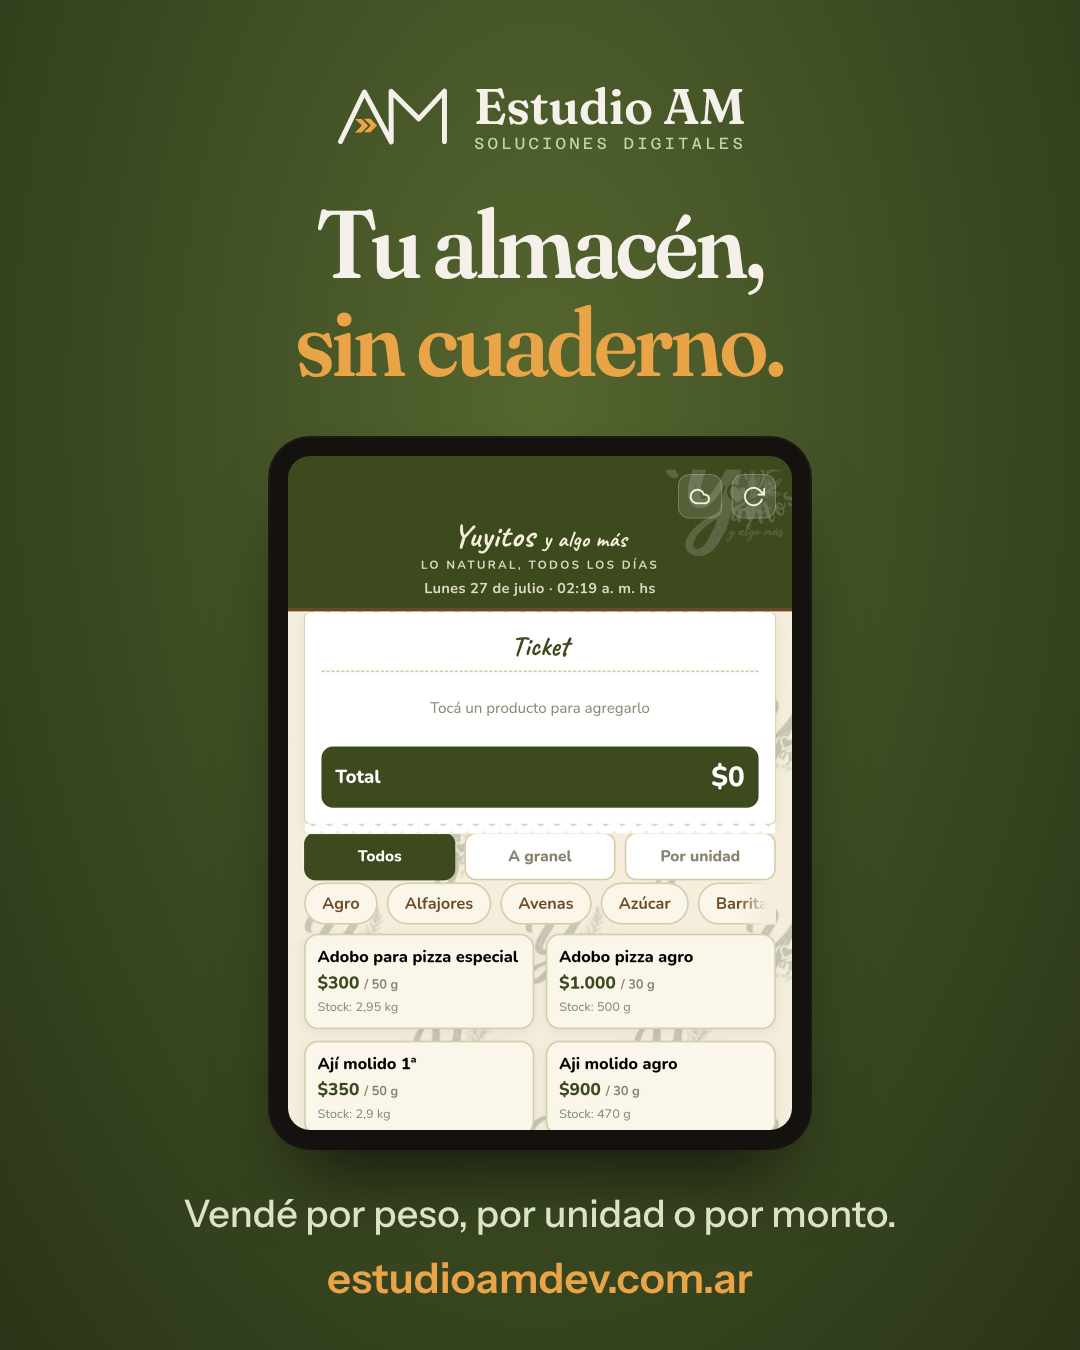
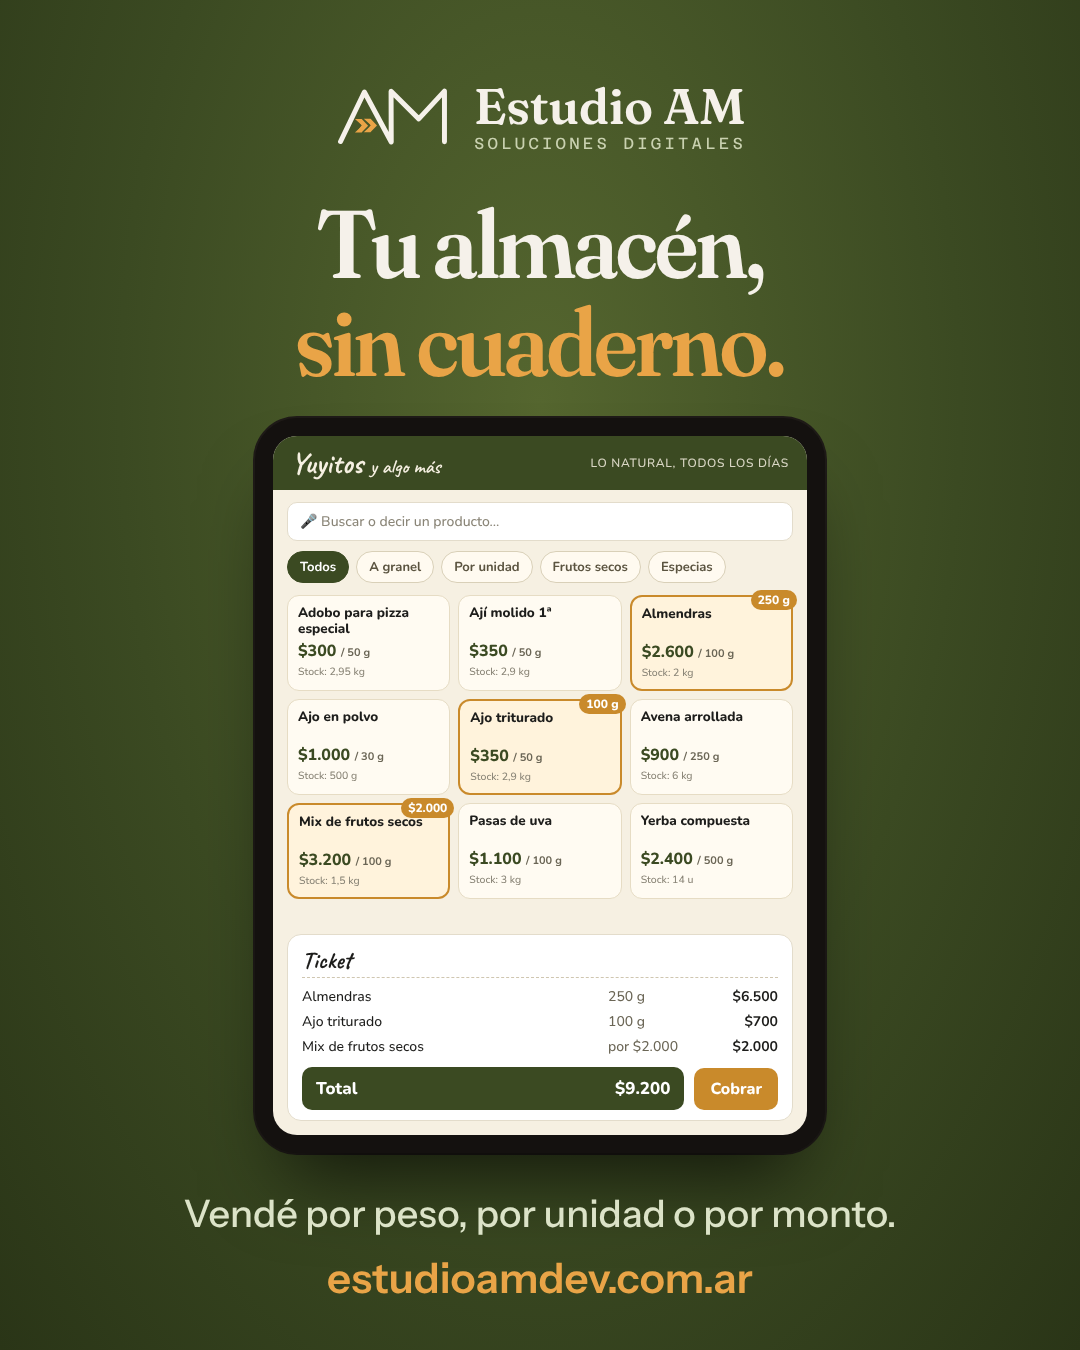
Instagram Yuyitos: pantalla de venta rediseñada para tablet (grilla de productos y ticket)
Claude-Session: https://claude.ai/code/session_017mEGFx6s2jDAYU45fQz8RP

Changed region(s): [[0.2139, 0.3111, 0.7639, 0.8711]]

diff --git a/piezas/instagram-yuyitos.html b/piezas/instagram-yuyitos.html
@@ -1,5 +1,5 @@
 <!doctype html><html lang="es"><head><meta charset="utf-8">
-<link href="https://fonts.googleapis.com/css2?family=Fraunces:ital,opsz,wght,SOFT,WONK@0,9..144,400..700,50,1;1,9..144,400..600,50,1&family=Instrument+Sans:wght@400;500;600&family=Azeret+Mono:wght@400;500&display=block" rel="stylesheet">
+<link href="https://fonts.googleapis.com/css2?family=Fraunces:ital,opsz,wght,SOFT,WONK@0,9..144,400..700,50,1;1,9..144,400..600,50,1&family=Instrument+Sans:wght@400;500;600&family=Azeret+Mono:wght@400;500&family=Caveat:wght@600;700&family=Nunito:wght@500;700;800&display=block" rel="stylesheet">
 <style>
 *{box-sizing:border-box;margin:0;padding:0}
 body{width:1080px;height:1350px;overflow:hidden;position:relative;font-family:'Instrument Sans',sans-serif;color:#14110F;background:radial-gradient(ellipse at 50% 30%,#55662F 0%,#3B4A22 55%,#2A3517 100%)}
@@ -9,15 +9,47 @@ body{width:1080px;height:1350px;overflow:hidden;position:relative;font-family:'I
 .top i{font-style:normal;font-family:'Azeret Mono',monospace;font-size:16px;letter-spacing:.2em;text-transform:uppercase;color:#C9D1B0}
 h1{position:absolute;top:195px;left:0;right:0;text-align:center;font-family:'Fraunces',serif;font-weight:600;font-size:96px;line-height:1.02;letter-spacing:-.025em;color:#F5F1EA}
 h1 span{color:#E9A447}
-.tab{position:absolute;left:270px;top:438px;width:540px;height:710px;padding:18px;background:#14110F;border-radius:40px;box-shadow:0 50px 80px -30px rgba(0,0,0,.7),0 0 0 2px #1f1b18}
-.tab img{display:block;width:504px;height:674px;object-fit:cover;object-position:top;border-radius:22px}
+.tab{position:absolute;left:255px;top:418px;width:570px;height:735px;padding:18px;background:#14110F;border-radius:42px;box-shadow:0 50px 80px -30px rgba(0,0,0,.7),0 0 0 2px #1f1b18}
+
 
 .sub{position:absolute;top:1190px;left:0;right:0;text-align:center;font-size:38px;font-weight:500;color:#DCE3C8}
 .url{position:absolute;top:1252px;left:0;right:0;text-align:center;font-weight:600;font-size:42px;color:#E9A447}
+
+.scr{width:534px;height:699px;border-radius:24px;overflow:hidden;background:#F6F0E2;font-family:'Nunito',sans-serif;color:#1d1d1b;display:flex;flex-direction:column}
+.hd{background:#3B4A22;color:#F6F0E2;padding:12px 18px;display:flex;align-items:center;justify-content:space-between}
+.hd b{font-family:'Caveat',cursive;font-size:30px;font-weight:700;line-height:1}.hd b small{font-size:20px;font-weight:600}
+.hd span{font-size:12px;letter-spacing:.06em;opacity:.85}
+.srch{margin:12px 14px 0;background:#fff;border:1px solid #e3dccb;border-radius:10px;padding:9px 12px;font-size:14px;color:#8a8577}
+.chips{display:flex;gap:7px;margin:10px 14px 0}
+.chips i{font-style:normal;font-size:13px;font-weight:700;padding:6px 12px;border-radius:999px;border:1px solid #d9d0b8;color:#5b5440;background:#fffaf0}
+.chips i.on{background:#3B4A22;color:#fff;border-color:#3B4A22}
+.grid{display:grid;grid-template-columns:repeat(3,1fr);gap:8px;margin:12px 14px 0}
+.p{background:#FFFBF2;border:1px solid #e6dcc4;border-radius:12px;padding:9px 10px;position:relative}
+.p h4{font-size:13.5px;font-weight:800;line-height:1.15;height:31px}
+.p .pr{margin-top:4px;font-size:16px;font-weight:800;color:#3B4A22}.p .pr small{font-size:11px;color:#6b6656;font-weight:600}
+.p .st{font-size:10.5px;color:#8a8577;margin-top:2px}
+.p.sel{border:2px solid #C98A2B;background:#FFF3DC}
+.p .q{position:absolute;top:-7px;right:-6px;background:#C98A2B;color:#fff;font-size:12px;font-weight:800;border-radius:999px;padding:2px 7px}
+.tk{margin:auto 14px 14px;background:#fff;border:1px solid #e3dccb;border-radius:14px;padding:10px 14px}
+.tk .tt{font-family:'Caveat',cursive;font-size:24px;font-weight:700;border-bottom:1px dashed #cfc6b0;padding-bottom:2px;margin-bottom:6px}
+.tk .r{display:grid;grid-template-columns:1fr 90px 80px;font-size:14px;padding:3px 0}.tk .r b{text-align:right}.tk .r span{color:#6b6656}
+.tot{margin-top:8px;display:flex;align-items:center;gap:10px}
+.tot div{flex:1;background:#3B4A22;color:#fff;border-radius:10px;padding:10px 14px;display:flex;justify-content:space-between;font-weight:800;font-size:17px}
+.tot a{background:#C98A2B;color:#fff;border-radius:10px;padding:10px 16px;font-weight:800;font-size:16px}
 </style></head><body>
 <div class="top"><svg class="mark" viewBox="0 26 190 100"><path d="M 10.422337,117.11416 48.820421,37.300995 92.1554,117.93697 91.881131,36.203908 136.58747,80.635977 178.00255,35.929636 V 117.6627" fill="none" stroke="#F5F1EA" stroke-width="8" stroke-linecap="round" stroke-linejoin="round"/><polygon points="37.00,81.00 44.67,91.00 37.00,101.00 41.83,101.00 48.50,91.00 41.83,81.00" fill="#E9A447"/><polygon points="56.33,101 63,91 56.33,81 51.5,81 59.17,91 51.5,101 " fill="#e9a447" transform="matrix(1.3851412,0,0,0.97306171,-34.373503,2.997782)" style="stroke:#e9a447;stroke-width:2.41402;stroke-dasharray:none;stroke-opacity:1"/><polygon points="51.50,81.00 59.17,91.00 51.50,101.00 56.33,101.00 63.00,91.00 56.33,81.00" fill="#E9A447"/><polygon points="56.33,101 63,91 56.33,81 51.5,81 59.17,91 51.5,101 " fill="#e9a447" transform="matrix(1.3851412,0,0,0.97306171,-20.089239,2.6035349)" style="stroke:#e9a447;stroke-width:2.41402;stroke-dasharray:none;stroke-opacity:1"/></svg><div><b>Estudio AM</b><i>Soluciones digitales</i></div></div>
 <h1>Tu almacén,<br><span>sin cuaderno.</span></h1>
-<div class="tab"><img src="fotos-perfil/yuy-venta-tablet.jpg"></div>
+<div class="tab"><div class="scr">
+<div class="hd"><b>Yuyitos <small>y algo más</small></b><span>LO NATURAL, TODOS LOS DÍAS</span></div>
+<div class="srch">🎤  Buscar o decir un producto…</div>
+<div class="chips"><i class="on">Todos</i><i>A granel</i><i>Por unidad</i><i>Frutos secos</i><i>Especias</i></div>
+<div class="grid"><div class="p"><h4>Adobo para pizza especial</h4><div class="pr">$300 <small>/ 50 g</small></div><div class="st">Stock: 2,95 kg</div></div><div class="p"><h4>Ají molido 1ª</h4><div class="pr">$350 <small>/ 50 g</small></div><div class="st">Stock: 2,9 kg</div></div><div class="p sel"><span class="q">250 g</span><h4>Almendras</h4><div class="pr">$2.600 <small>/ 100 g</small></div><div class="st">Stock: 2 kg</div></div><div class="p"><h4>Ajo en polvo</h4><div class="pr">$1.000 <small>/ 30 g</small></div><div class="st">Stock: 500 g</div></div><div class="p sel"><span class="q">100 g</span><h4>Ajo triturado</h4><div class="pr">$350 <small>/ 50 g</small></div><div class="st">Stock: 2,9 kg</div></div><div class="p"><h4>Avena arrollada</h4><div class="pr">$900 <small>/ 250 g</small></div><div class="st">Stock: 6 kg</div></div><div class="p sel"><span class="q">$2.000</span><h4>Mix de frutos secos</h4><div class="pr">$3.200 <small>/ 100 g</small></div><div class="st">Stock: 1,5 kg</div></div><div class="p"><h4>Pasas de uva</h4><div class="pr">$1.100 <small>/ 100 g</small></div><div class="st">Stock: 3 kg</div></div><div class="p"><h4>Yerba compuesta</h4><div class="pr">$2.400 <small>/ 500 g</small></div><div class="st">Stock: 14 u</div></div></div>
+<div class="tk"><div class="tt">Ticket</div>
+<div class="r">Almendras <span>250 g</span><b>$6.500</b></div>
+<div class="r">Ajo triturado <span>100 g</span><b>$700</b></div>
+<div class="r">Mix de frutos secos <span>por $2.000</span><b>$2.000</b></div>
+<div class="tot"><div><span>Total</span><span>$9.200</span></div><a>Cobrar</a></div></div>
+</div></div>
 <p class="sub">Vendé por peso, por unidad o por monto.</p>
 <p class="url">estudioamdev.com.ar</p>
 </body></html>
